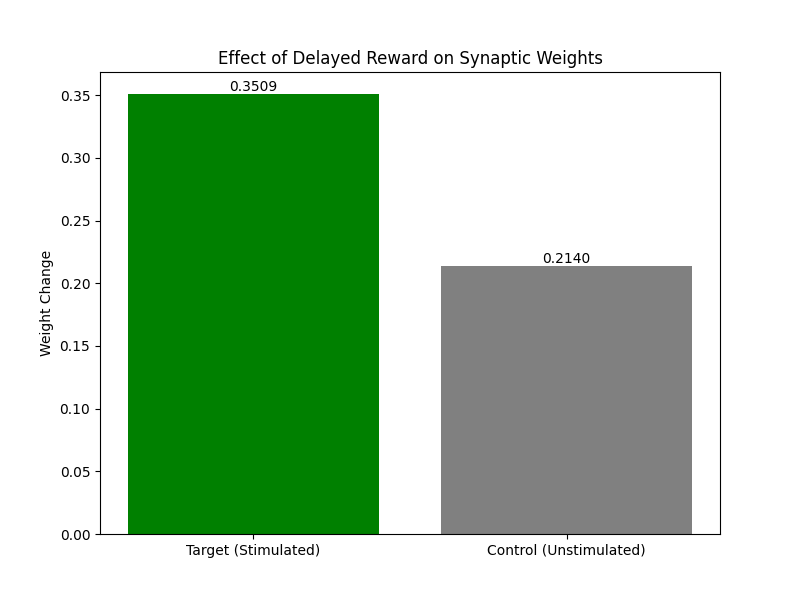
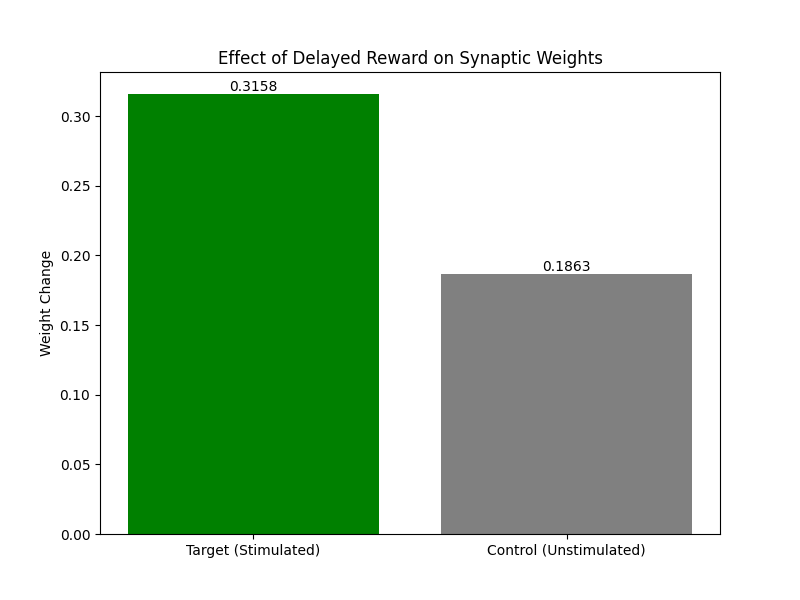
feat: Implement Weight Homeostasis (Decay and Capping)

diff --git a/environment/core.py b/environment/core.py
@@ -81,18 +81,20 @@ class OrganoidEnv(gym.Env):
 
         # 2. Synapses (Plasticity Enabled)
         # Model for plasticity: w is weight, Trace tracks eligibility
-        # Trace decays exponentially
+        # Weight Homeostasis: w decays back to baseline
         syn_eqs = '''
-        w : 1
+        dw/dt = (w0 - w) / tau_decay : 1
         dTrace/dt = -Trace / tau_trace : 1
+        w0 : 1 (shared)
         '''
         
         # E-E: Plastic
         # On spike, v_post increases by w, and Trace increases
         S_EE = Synapses(P_exc, P_exc, model=syn_eqs, on_pre='v_post += w; Trace += 1', 
                         method='euler',
-                        namespace={'tau_trace': self.tau_trace})
+                        namespace={'tau_trace': self.tau_trace, 'tau_decay': 10000*ms})
         S_EE.connect(p=0.1)
+        S_EE.w0 = 15.0 # Baseline
         S_EE.w = 15.0 # Initial weight
         S_EE.Trace = 0.0
         self.synapses.append(S_EE)
@@ -100,17 +102,19 @@ class OrganoidEnv(gym.Env):
         # E-I: Plastic
         S_EI = Synapses(P_exc, P_inh, model=syn_eqs, on_pre='v_post += w; Trace += 1',
                         method='euler',
-                        namespace={'tau_trace': self.tau_trace})
+                        namespace={'tau_trace': self.tau_trace, 'tau_decay': 10000*ms})
         S_EI.connect(p=0.1)
+        S_EI.w0 = 15.0
         S_EI.w = 15.0
         S_EI.Trace = 0.0
         self.synapses.append(S_EI)
         
-        # I-E: Inhibitory (subtracted w) - Also has traces if we want symmetric learning
+        # I-E: Inhibitory
         S_IE = Synapses(P_inh, P_exc, model=syn_eqs, on_pre='v_post -= w; Trace += 1',
                         method='euler',
-                        namespace={'tau_trace': self.tau_trace})
+                        namespace={'tau_trace': self.tau_trace, 'tau_decay': 10000*ms})
         S_IE.connect(p=0.1)
+        S_IE.w0 = 25.0
         S_IE.w = 25.0
         S_IE.Trace = 0.0
         self.synapses.append(S_IE)
@@ -118,8 +122,9 @@ class OrganoidEnv(gym.Env):
         # I-I: Inhibitory
         S_II = Synapses(P_inh, P_inh, model=syn_eqs, on_pre='v_post -= w; Trace += 1',
                         method='euler',
-                        namespace={'tau_trace': self.tau_trace})
+                        namespace={'tau_trace': self.tau_trace, 'tau_decay': 10000*ms})
         S_II.connect(p=0.1)
+        S_II.w0 = 25.0
         S_II.w = 25.0
         S_II.Trace = 0.0
         self.synapses.append(S_II)

diff --git a/environment/rewards.py b/environment/rewards.py
@@ -26,5 +26,6 @@ def apply_dopamine(synapses, reward, learning_rate=0.01):
             # Modifying state variables is efficient in Brian2.
             
             # w += lr * R * T
-            # We clamp weights to reasonable bounds if needed, but for now just update.
+            # We clip weights to prevent runaway excitation (0 to 100)
             S.w += learning_rate * reward * S.Trace
+            S.w = np.clip(S.w, 0, 100.0)
